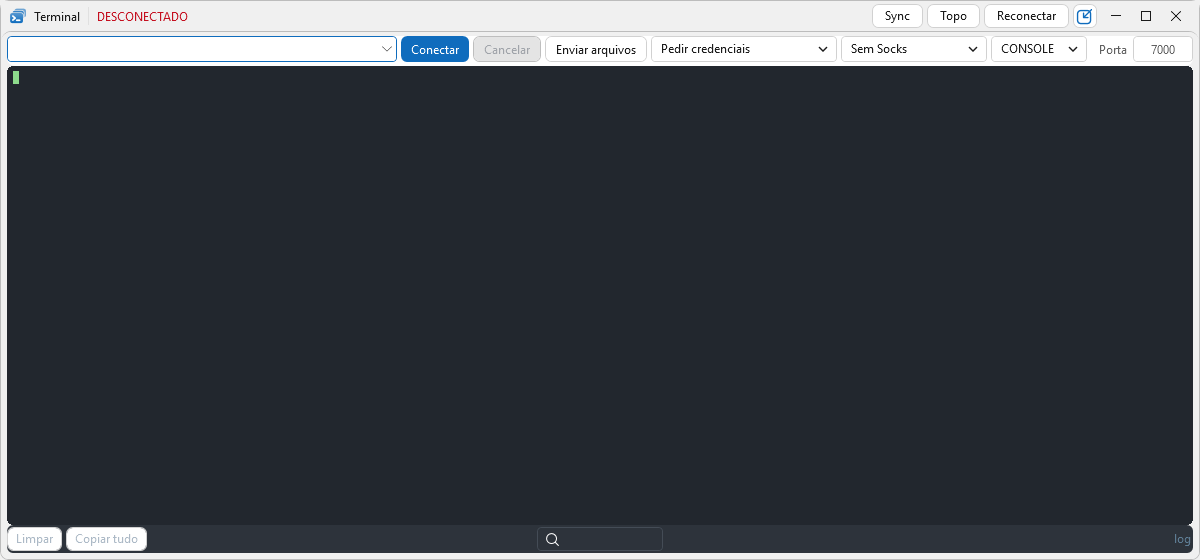
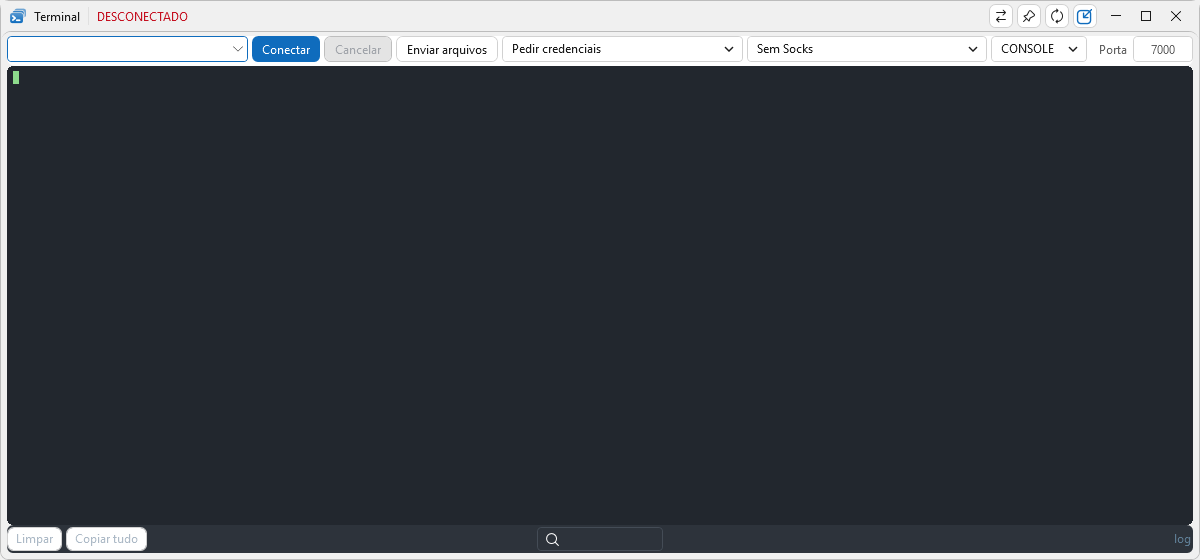
README da v1.7.53 com fotos atuais

Changed region(s): [[0.185, 0.0607, 0.6783, 0.1214], [0.74, 0.0, 0.8942, 0.0607], [0.7092, 0.0607, 0.74, 0.0911]]

diff --git a/README.md b/README.md
@@ -7,17 +7,17 @@ Terminais SSH, Telnet, serial e RDP em abas, comandos em vários equipamentos e 
 ![Terminal](telas/terminal.png)
 ![Propriedades da pasta / Folder properties](telas/propriedades-da-pasta.png)
 
-## Baixar / Download — v1.7.52
+## Baixar / Download — v1.7.53
 
-- [Instalador / Installer (.msi)](https://github.com/Dorflex-DD/TCPDesk-releases/releases/latest/download/TCPDesk_v1.7.52_instalador_sem-runtime.msi)
-- [Portátil / Portable (.zip)](https://github.com/Dorflex-DD/TCPDesk-releases/releases/latest/download/TCPDesk_v1.7.52_executavel_sem-runtime.zip)
+- [Instalador / Installer (.msi)](https://github.com/Dorflex-DD/TCPDesk-releases/releases/latest/download/TCPDesk_v1.7.53_instalador_sem-runtime.msi)
+- [Portátil / Portable (.zip)](https://github.com/Dorflex-DD/TCPDesk-releases/releases/latest/download/TCPDesk_v1.7.53_executavel_sem-runtime.zip)
 - [Todas as versões / All releases](https://github.com/Dorflex-DD/TCPDesk-releases/releases/latest)
 
 Windows 10/11 x64 · .NET 11 Desktop Runtime
 
 ## Novidades / What's new
 
-- As Configurações abrem mais rápido. / Settings opens faster.
-- Janela Terminal mais enxuta e alinhada. / Leaner, aligned Terminal window.
+- Janela Terminal mais compacta: Sync, Topo e Reconectar em ícones. / More compact Terminal window: Sync, Always on top and Reconnect as icons.
+- Botão de suspensão com sol e lua: "Sem suspensão" / "Suspensão normal". / Sleep button with sun and moon: "No sleep" / "Normal sleep".
 
 Uso somente com autorização escrita do autor (LICENSE). / Use only with the author's written authorization (LICENSE-en).
